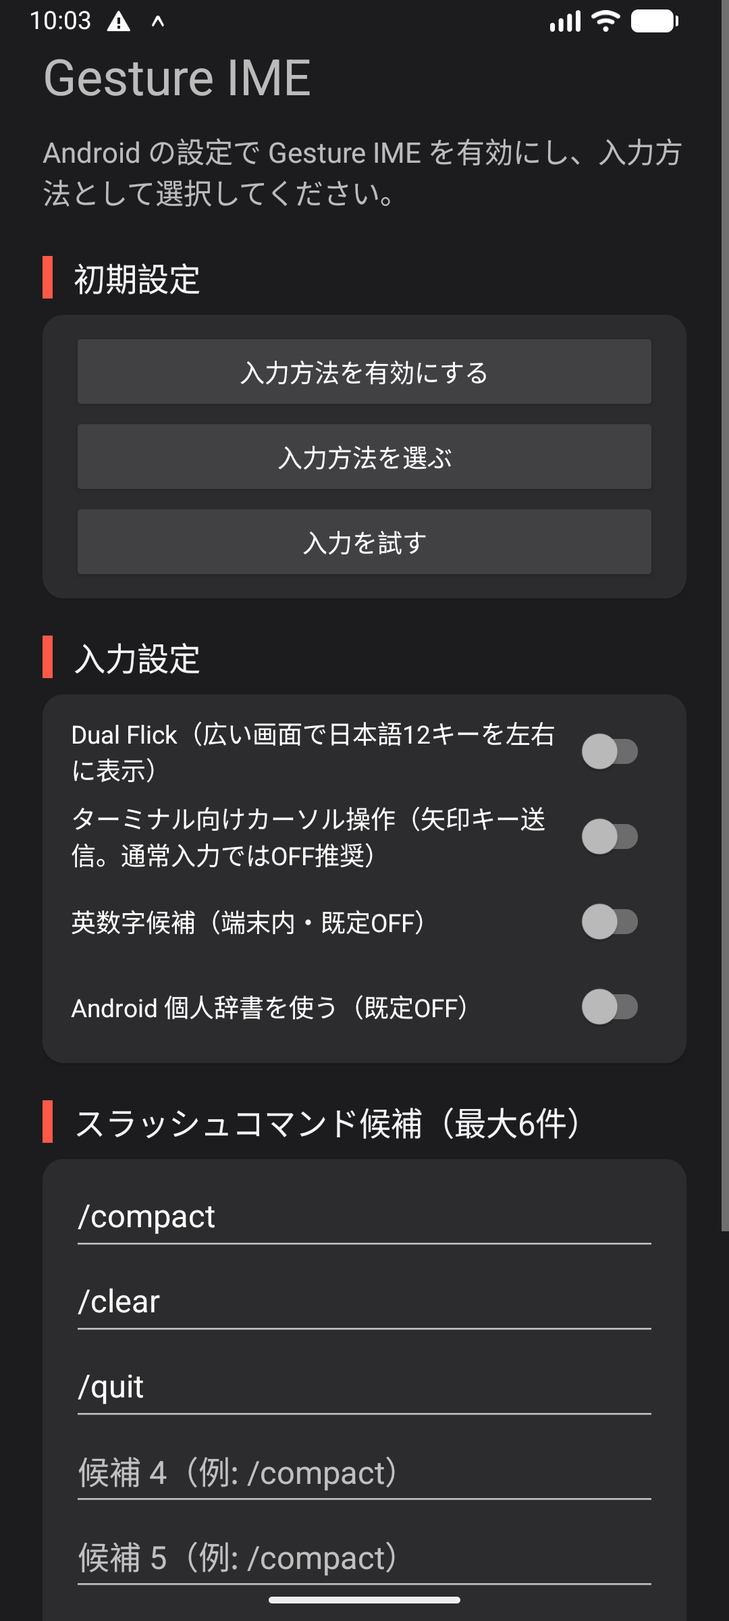
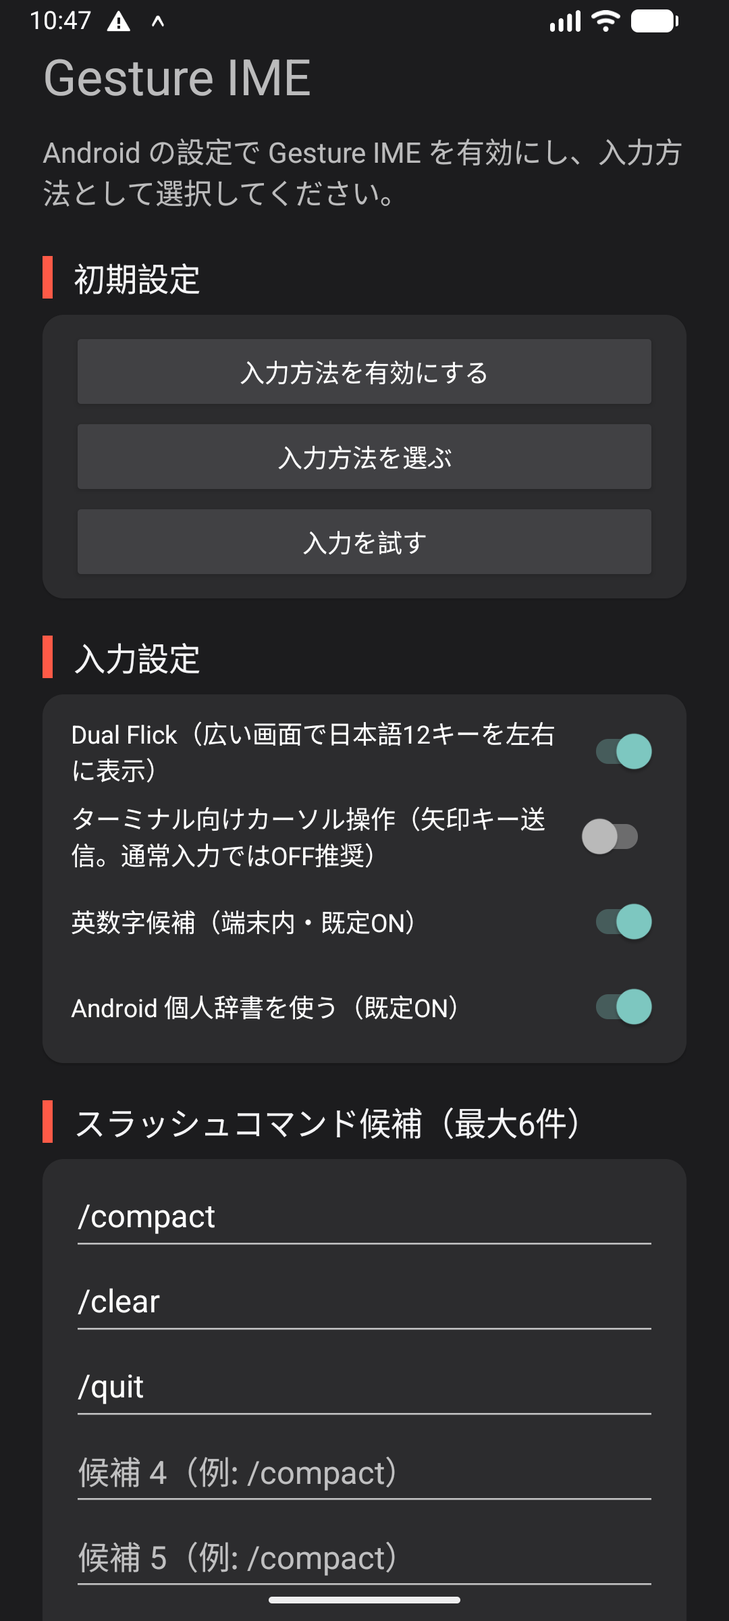
[260912-014204-enable-non-terminal-settings-by-default] feat(settings): enable general input aids by default

diff --git a/site/manual.html b/site/manual.html
@@ -25,15 +25,15 @@
 
       <section id="layers"><h2>五つのレイヤーを切り替える</h2><p>左下のレイヤーキーは、現在の表示にかかわらず同じ方向へ移動します。中央の文字はタップ時の移動先です。記号レイヤーは各レイヤー左端の「#!」をタップして開きます。</p><table class="gesture-table"><thead><tr><th>操作</th><th>動作</th></tr></thead><tbody><tr><td>左フリック</td><td>音声入力面</td></tr><tr><td>上フリック</td><td>日本語</td></tr><tr><td>右フリック</td><td>QWERTY</td></tr><tr><td>下フリック</td><td>テンキー</td></tr><tr><td>あんをタップ</td><td>日本語</td></tr><tr><td>AZをタップ</td><td>QWERTY</td></tr><tr><td>#!をタップ</td><td>記号</td></tr></tbody></table></section>
 
-      <section id="dual"><h2>広い画面でDual Flickを使う</h2><ol class="steps"><li>Gesture IMEのセットアップ画面を開き、「Dual Flick」を有効にします。</li><li>タブレット表示など横幅の広い画面で日本語レイヤーを開くと、かな12キーが左右に1組ずつ表示されます。Foldなら、閉じたスマホ表示と開いたタブレット表示の両方で使えます。</li><li>左右どちらからでも同じ読みへ入力できます。狭い画面では設定を保ったまま、自動的に通常の1組表示へ戻ります。</li></ol><p class="note">Dual Flickの初期設定はOFFです。数字、記号、候補欄、Space、Enterなどの編集キーは複製されません。</p><figure class="manual-shot"><img src="assets/dual-kana-v0.5.png" alt="横幅の広い画面でかな12キーを左右2組表示したGesture IME v0.5.0"><figcaption>タブレット幅でDual Flickを有効にした日本語レイヤー</figcaption></figure></section>
+      <section id="dual"><h2>広い画面でDual Flickを使う</h2><ol class="steps"><li>Dual Flickは初期状態で有効です。設定を変える場合はGesture IMEのセットアップ画面を開きます。</li><li>タブレット表示など横幅の広い画面で日本語レイヤーを開くと、かな12キーが左右に1組ずつ表示されます。Foldなら、閉じたスマホ表示と開いたタブレット表示の両方で使えます。</li><li>左右どちらからでも同じ読みへ入力できます。狭い画面では設定を保ったまま、自動的に通常の1組表示へ戻ります。</li></ol><p class="note">Dual Flickの初期設定はONです。数字、記号、候補欄、Space、Enterなどの編集キーは複製されません。</p><figure class="manual-shot"><img src="assets/dual-kana-v0.5.png" alt="横幅の広い画面でかな12キーを左右2組表示したGesture IME v0.5.0"><figcaption>タブレット幅でDual Flickを有効にした日本語レイヤー</figcaption></figure></section>
 
       <section id="japanese"><h2>日本語を入力して変換する</h2><p>かなキーをタップすると中央、上下左右へ動かすと各方向のかなが入ります。たとえば「あ」は中央が「あ」、左が「い」、上が「う」、右が「え」、下が「お」です。同じキーを続けて押しても文字が置き換わらず、入力した回数だけ追加されます。</p><ol class="steps"><li>左下キーを上へフリックして「日本語」を開きます。</li><li>かなを中央または四方向から選びます。入力中の読みと変換候補が上段に表示されます。</li><li>Spaceをタップして候補を巡回します。候補を直接タップするか、「確定」を押すと確定します。読みが変わると候補欄の横位置は先頭へ戻ります。</li></ol><p>「小」キーはタップで直前のかなを変換可能な形へ順番に切り替え、上で小文字、左で濁点、右で半濁点へ直接切り替えます。変換中の「確定」は、上フリックで元のひらがな、左フリックで全角カタカナをそのまま確定します。読みがないときのSpaceは空白、変換中でないときのEnterは入力欄の指定アクションまたは改行になります。</p><figure class="manual-shot"><img src="assets/kana-popup-v0.5.png" alt="Gesture IME v0.5.0の日本語12キーレイヤー"><figcaption>QWERTYと高さを揃えた日本語12キー</figcaption></figure><figure class="manual-shot"><img src="assets/kana-candidates-v0.5.png" alt="候補を表示しても背景色が変わらないGesture IME v0.5.0"><figcaption>候補の有無にかかわらず、候補欄の背景色は一定です。</figcaption></figure></section>
 
-      <section id="learning"><h2>変換学習とAndroid個人辞書を使う</h2><h3>Mozcの変換学習</h3><p>通常の入力欄で確定した日本語候補は端末内のMozc履歴へ保存され、次回以降の候補順位に反映されます。不要な学習候補は候補面を長押しすると、その候補のMozc履歴から削除できます。Android個人辞書由来の候補は長押しで削除されません。</p><h3>Android個人辞書</h3><ol class="steps"><li>Androidの個人辞書で、単語と読みとして使うショートカットを登録します。</li><li>Gesture IMEのセットアップ画面を開き、「Android 個人辞書を使う」をONにします。初期設定はOFFです。</li><li>日本語レイヤーでショートカットと同じ読みを入力すると、登録語がMozc候補の前へ表示されます。</li></ol><p class="note">日本語ロケールまたはロケール未指定の登録語を最大6件参照します。Androidが現在のIMEへ個人辞書Providerを提供しない端末や、Providerへのアクセスを拒否した状態では、設定がONでも個人辞書候補を表示せず、通常のMozc候補だけを表示します。個人辞書をGesture IME内へ複製せず、ネットワークへ送信しません。パスワード欄と学習禁止指定の入力欄では、候補、学習、個人辞書参照を行いません。</p><figure class="manual-shot"><img src="assets/setup-v0.10-light.png" alt="Android個人辞書の利用設定を備えたGesture IME v0.10.0セットアップ画面"><figcaption>「Android 個人辞書を使う」は初期設定OFF。必要な場合だけ有効にします。</figcaption></figure></section>
+      <section id="learning"><h2>変換学習とAndroid個人辞書を使う</h2><h3>Mozcの変換学習</h3><p>通常の入力欄で確定した日本語候補は端末内のMozc履歴へ保存され、次回以降の候補順位に反映されます。不要な学習候補は候補面を長押しすると、その候補のMozc履歴から削除できます。Android個人辞書由来の候補は長押しで削除されません。</p><h3>Android個人辞書</h3><ol class="steps"><li>Androidの個人辞書で、単語と読みとして使うショートカットを登録します。</li><li>「Android 個人辞書を使う」は初期状態で有効です。設定を変える場合はGesture IMEのセットアップ画面を開きます。</li><li>日本語レイヤーでショートカットと同じ読みを入力すると、登録語がMozc候補の前へ表示されます。</li></ol><p class="note">日本語ロケールまたはロケール未指定の登録語を最大6件参照します。Androidが現在のIMEへ個人辞書Providerを提供しない端末や、Providerへのアクセスを拒否した状態では、設定がONでも個人辞書候補を表示せず、通常のMozc候補だけを表示します。個人辞書をGesture IME内へ複製せず、ネットワークへ送信しません。パスワード欄と学習禁止指定の入力欄では、候補、学習、個人辞書参照を行いません。</p><figure class="manual-shot"><img src="assets/setup-v0.10-light.png" alt="Android個人辞書の利用設定を備えたGesture IME v0.10.0セットアップ画面"><figcaption>Dual Flick、英数字候補、Android個人辞書は初期設定ON。必要に応じて個別に変更できます。</figcaption></figure></section>
 
       <section id="qwerty"><h2>QWERTYで英字と記号を入力する</h2><table class="gesture-table"><thead><tr><th>操作</th><th>入力</th></tr></thead><tbody><tr><td>英字キーをタップ</td><td>小文字</td></tr><tr><td>英字キーを上へスワイプ</td><td>その一文字だけ大文字</td></tr><tr><td>英字キーを下へフリック</td><td>キー上部の数字またはASCII記号</td></tr><tr><td>C/Aを上へフリック</td><td>次の一キーへAltを適用</td></tr><tr><td>C/Aを下へフリック</td><td>次の一キーへCtrlを適用</td></tr><tr><td>Enterを上へフリック</td><td>Ctrl+J</td></tr><tr><td>Enterを下へフリック</td><td>Paste</td></tr><tr><td>BSをタップ</td><td>一文字削除</td></tr><tr><td>BSを下へフリック</td><td>ESC操作</td></tr></tbody></table><p class="note">QWERTYと記号レイヤーを合わせると、Spaceを含む印字可能ASCII 95文字をすべて入力できます。「-」はQWERTYのx下フリックと記号レイヤー、「`」は記号レイヤーにあります。記号レイヤーの文字キーには方向フリックを割り当てていません。C/A選択後は背景色が変わり、次の一キーへ適用すると解除されます。</p><div class="theme-gallery"><figure class="manual-shot"><img src="assets/enter-ctrl-j-v0.9.png" alt="Enterを上フリックしてC-jを表示した操作モック"><figcaption>上フリック中だけC-jを表示</figcaption></figure><figure class="manual-shot"><img src="assets/enter-paste-v0.9.png" alt="Enterを下フリックしてpasteを中央へ拡大した操作モック"><figcaption>下フリックのpasteを90msで中央へ移動</figcaption></figure></div></section>
 
-      <section id="english-suggestions"><h2>英字候補を使う</h2><ol class="steps"><li>Gesture IMEのセットアップ画面で「英数字候補」を有効にします。初期設定はOFFです。</li><li>半角の英字・数字を続けて入力すると、未確定のまま保持します。英字だけのときは、その文字で始まる単語を候補欄へ最大5件表示します。数字が混ざると候補は表示しません。候補が表示されても入力した文字は変わりません。</li><li>候補をタップすると、入力中の英字を選んだ単語で置き換えて確定します。</li></ol><p>入力中にSpaceを押すと、その英字・数字を変更せず確定してから空白を入力します。Enterを押すと英字・数字だけを確定し、この場合は改行や送信を追加しません。入力中の英字・数字がないときのEnterは従来どおりです。パスワード欄では候補を表示しません。</p><p class="note">候補は端末内の固定英単語辞書から生成します。入力履歴の学習、個人辞書、ネットワーク送信、クラウド同期はありません。入力した大文字と小文字は候補にも保たれます。</p><figure class="manual-shot"><img src="assets/english-candidates-v0.6.png" alt="通常入力欄でproの英字候補を表示し、機密入力欄では候補を表示しないGesture IME v0.6.0"><figcaption>通常入力欄の候補表示。機密入力欄には候補を出しません。</figcaption></figure></section>
+      <section id="english-suggestions"><h2>英字候補を使う</h2><ol class="steps"><li>英数字候補は初期状態で有効です。設定を変える場合はGesture IMEのセットアップ画面を開きます。</li><li>半角の英字・数字を続けて入力すると、未確定のまま保持します。英字だけのときは、その文字で始まる単語を候補欄へ最大5件表示します。数字が混ざると候補は表示しません。候補が表示されても入力した文字は変わりません。</li><li>候補をタップすると、入力中の英字を選んだ単語で置き換えて確定します。</li></ol><p>入力中にSpaceを押すと、その英字・数字を変更せず確定してから空白を入力します。Enterを押すと英字・数字だけを確定し、この場合は改行や送信を追加しません。入力中の英字・数字がないときのEnterは従来どおりです。パスワード欄では候補を表示しません。</p><p class="note">候補は端末内の固定英単語辞書から生成します。入力履歴の学習、個人辞書、ネットワーク送信、クラウド同期はありません。入力した大文字と小文字は候補にも保たれます。</p><figure class="manual-shot"><img src="assets/english-candidates-v0.6.png" alt="通常入力欄でproの英字候補を表示し、機密入力欄では候補を表示しないGesture IME v0.6.0"><figcaption>通常入力欄の候補表示。機密入力欄には候補を出しません。</figcaption></figure></section>
 
       <section id="slash-commands"><h2>スラッシュコマンド候補を使う</h2><ol class="steps"><li>QWERTYで「/」を入力します。初期設定では「/compact」「/clear」「/quit」が候補欄に表示されます。</li><li>候補をタップすると、入力中の「/」を選んだコマンドで置き換えて確定します。候補を選ばなければ「/」のまま入力できます。</li><li>候補を変える場合は、Gesture IMEのセットアップ画面にある6個の欄を編集します。先頭の「/」は省略しても自動で補われ、空欄と同じ候補の重複は表示されません。</li></ol><p class="note">スラッシュ候補は英数字候補のON/OFFにかかわらず使えます。パスワード欄などの機密入力では表示しません。</p><div class="theme-gallery"><figure class="manual-shot"><img src="assets/slash-command-settings-v0.8.png" alt="6個のスラッシュコマンドを設定する画面"><figcaption>最大6個の候補を設定</figcaption></figure><figure class="manual-shot"><img src="assets/slash-command-candidates-v0.8.png" alt="QWERTYでスラッシュコマンド候補を表示"><figcaption>「/」に続く候補を表示</figcaption></figure></div></section>
 

diff --git a/app/src/test/java/com/masuidrive/gestureime/ImePreferencesTest.kt b/app/src/test/java/com/masuidrive/gestureime/ImePreferencesTest.kt
@@ -36,45 +36,41 @@ class ImePreferencesTest {
     }
 
     @Test
-    fun dualFlickDefaultsOffAndPersists() {
+    fun nonTerminalInputSettingsDefaultOnButExplicitFalsePersists() {
         val context = RuntimeEnvironment.getApplication()
-        assertFalse(ImePreferences.isDualFlickEnabled(context))
-
-        ImePreferences.setDualFlickEnabled(context, true)
+        val preferences = context.getSharedPreferences("gesture_ime_preferences", 0)
+        preferences.edit().clear().commit()
 
         assertTrue(ImePreferences.isDualFlickEnabled(context))
-        ImePreferences.setDualFlickEnabled(context, false)
-    }
-
-    @Test
-    fun englishSuggestionsDefaultOffPersistAndRejectMalformedValue() {
-        val context = RuntimeEnvironment.getApplication()
-        assertFalse(ImePreferences.isEnglishSuggestionsEnabled(context))
-
-        ImePreferences.setEnglishSuggestionsEnabled(context, true)
         assertTrue(ImePreferences.isEnglishSuggestionsEnabled(context))
+        assertTrue(ImePreferences.isAndroidUserDictionaryEnabled(context))
+        assertFalse(ImePreferences.isTerminalCursorEnabled(context))
 
-        context.getSharedPreferences("gesture_ime_preferences", 0).edit()
-            .putString("english_suggestions_enabled", "bad")
-            .apply()
+        ImePreferences.setDualFlickEnabled(context, false)
+        ImePreferences.setEnglishSuggestionsEnabled(context, false)
+        ImePreferences.setAndroidUserDictionaryEnabled(context, false)
+
+        assertFalse(ImePreferences.isDualFlickEnabled(context))
         assertFalse(ImePreferences.isEnglishSuggestionsEnabled(context))
+        assertFalse(ImePreferences.isAndroidUserDictionaryEnabled(context))
+        assertTrue(preferences.contains("dual_flick_enabled"))
+        assertTrue(preferences.contains("english_suggestions_enabled"))
+        assertTrue(preferences.contains("android_user_dictionary_enabled"))
     }
 
     @Test
-    fun androidUserDictionaryDefaultsOffAndPersistsExplicitConsent() {
+    fun malformedBooleanValuesUseSafeOffFallbackWithoutOverwritingStorage() {
         val context = RuntimeEnvironment.getApplication()
-        context.getSharedPreferences("gesture_ime_preferences", 0).edit()
-            .remove("android_user_dictionary_enabled")
-            .apply()
-        assertFalse(ImePreferences.isAndroidUserDictionaryEnabled(context))
-
-        ImePreferences.setAndroidUserDictionaryEnabled(context, true)
-        assertTrue(ImePreferences.isAndroidUserDictionaryEnabled(context))
-
-        context.getSharedPreferences("gesture_ime_preferences", 0).edit()
+        val preferences = context.getSharedPreferences("gesture_ime_preferences", 0)
+        preferences.edit()
+            .putString("english_suggestions_enabled", "bad")
             .putString("android_user_dictionary_enabled", "bad")
             .apply()
+
+        assertFalse(ImePreferences.isEnglishSuggestionsEnabled(context))
         assertFalse(ImePreferences.isAndroidUserDictionaryEnabled(context))
+        assertEquals("bad", preferences.getString("english_suggestions_enabled", null))
+        assertEquals("bad", preferences.getString("android_user_dictionary_enabled", null))
     }
 
     @Test

diff --git a/app/src/test/java/com/masuidrive/gestureime/SetupActivitySlashCommandsTest.kt b/app/src/test/java/com/masuidrive/gestureime/SetupActivitySlashCommandsTest.kt
@@ -22,17 +22,31 @@ import org.robolectric.annotation.Config
 @Config(sdk = [35])
 class SetupActivitySlashCommandsTest {
     @Test
-    fun androidUserDictionarySwitchDefaultsOffAndRecordsExplicitConsent() {
+    fun nonTerminalInputSwitchesDefaultOnAndKeepExplicitFalseAfterRecreation() {
         val context = RuntimeEnvironment.getApplication()
         context.getSharedPreferences("gesture_ime_preferences", 0).edit().clear().commit()
         val activity = Robolectric.buildActivity(SetupActivity::class.java).setup().get()
         val root = activity.findViewById<View>(android.R.id.content)
-        val toggle = root.descendants().filterIsInstance<Switch>()
-            .single { it.text.toString() == "Android 個人辞書を使う（既定OFF）" }
+        val toggles = root.descendants().filterIsInstance<Switch>()
+        val dual = toggles.single { it.text.toString().startsWith("Dual Flick") }
+        val terminal = toggles.single { it.text.toString().startsWith("ターミナル向け") }
+        val english = toggles.single { it.text.toString() == "英数字候補（端末内・既定ON）" }
+        val dictionary = toggles.single { it.text.toString() == "Android 個人辞書を使う（既定ON）" }
 
-        assertFalse(toggle.isChecked)
-        toggle.isChecked = true
-        assertTrue(ImePreferences.isAndroidUserDictionaryEnabled(activity))
+        assertTrue(dual.isChecked)
+        assertFalse(terminal.isChecked)
+        assertTrue(english.isChecked)
+        assertTrue(dictionary.isChecked)
+
+        dual.isChecked = false
+        english.isChecked = false
+        dictionary.isChecked = false
+        activity.recreate()
+
+        val recreated = activity.findViewById<View>(android.R.id.content).descendants().filterIsInstance<Switch>()
+        assertFalse(recreated.single { it.text.toString().startsWith("Dual Flick") }.isChecked)
+        assertFalse(recreated.single { it.text.toString().startsWith("英数字候補") }.isChecked)
+        assertFalse(recreated.single { it.text.toString().startsWith("Android 個人辞書") }.isChecked)
     }
 
     @Test

diff --git a/app/src/test/java/com/masuidrive/gestureime/ImeServiceVoiceHoldTest.kt b/app/src/test/java/com/masuidrive/gestureime/ImeServiceVoiceHoldTest.kt
@@ -84,7 +84,7 @@ class ImeServiceVoiceHoldTest {
     private class Harness(private val ready:Boolean=true) {
         val controller=Robolectric.buildService(ImeService::class.java).create(); val service=controller.get()
         val input=RecordingConnection(View(RuntimeEnvironment.getApplication())); val recognizer=FakeRecognizer(); val conversion=FakeConversion(); lateinit var root:View
-        init { val text=TextInputController({input},service,service.getSystemService(ClipboardManager::class.java)); val voice=VoiceRecognitionController(35,{true},{true},{ l->recognizer.listener=l;recognizer },service::onVoiceState); service.installTestDependencies(voice,text,conversion); service.onStartInput(EditorInfo(),false); root=service.onCreateInputView() }
+        init { ImePreferences.setEnglishSuggestionsEnabled(service, false); val text=TextInputController({input},service,service.getSystemService(ClipboardManager::class.java)); val voice=VoiceRecognitionController(35,{true},{true},{ l->recognizer.listener=l;recognizer },service::onVoiceState); service.installTestDependencies(voice,text,conversion); service.onStartInput(EditorInfo(),false); root=service.onCreateInputView() }
         fun begin(){ service.onVoiceHold(VoiceHoldEvent.Begin(1)); idle(); recognizer.support?.invoke(true); if(ready) recognizer.ready(); idle() }
         fun idle()=Shadows.shadowOf(android.os.Looper.getMainLooper()).idle()
     }

diff --git a/app/src/main/java/com/masuidrive/gestureime/ImePreferences.kt b/app/src/main/java/com/masuidrive/gestureime/ImePreferences.kt
@@ -16,7 +16,7 @@ object ImePreferences {
 
     fun isEnglishSuggestionsEnabled(context: Context): Boolean = runCatching {
         context.getSharedPreferences(FILE_NAME, Context.MODE_PRIVATE)
-            .getBoolean(ENGLISH_SUGGESTIONS, false)
+            .getBoolean(ENGLISH_SUGGESTIONS, true)
     }.getOrDefault(false)
 
     fun setEnglishSuggestionsEnabled(context: Context, enabled: Boolean) {
@@ -28,7 +28,7 @@ object ImePreferences {
 
     fun isAndroidUserDictionaryEnabled(context: Context): Boolean = runCatching {
         context.getSharedPreferences(FILE_NAME, Context.MODE_PRIVATE)
-            .getBoolean(ANDROID_USER_DICTIONARY, false)
+            .getBoolean(ANDROID_USER_DICTIONARY, true)
     }.getOrDefault(false)
 
     fun setAndroidUserDictionaryEnabled(context: Context, enabled: Boolean) {
@@ -66,7 +66,7 @@ object ImePreferences {
 
     fun isDualFlickEnabled(context: Context): Boolean =
         context.getSharedPreferences(FILE_NAME, Context.MODE_PRIVATE)
-            .getBoolean(DUAL_FLICK, false)
+            .getBoolean(DUAL_FLICK, true)
 
     fun setDualFlickEnabled(context: Context, enabled: Boolean) {
         context.getSharedPreferences(FILE_NAME, Context.MODE_PRIVATE)

diff --git a/technical-reference.md b/technical-reference.md
@@ -32,14 +32,14 @@ Based on https://github.com/masuidrive/pdh/blob/15e6289/codex/templates/technica
 3. 候補待ちを含む入力actionは順序を保つ。Editor lifecycle generationと変換generationが一致しない非同期結果は破棄する。（2026-09-11 / 260910-163036）
 4. Mozcはincognito/learning無効で利用し、入力内容を永続化しない。secret欄では変換処理そのものを呼ばない。（2026-09-11 / 260910-163036）
 5. スマホ・タブレットの代表値として412dpと840dp相当のエミュレータ幅を使い、Fold実機を使っていない確認は実機検証と区別して報告する。（2026-09-11 / 260910-163036, 260911-153653）
-6. Dual Flickは設定default OFFとし、利用可能幅600dp以上の日本語かなレイヤーだけ中央12キーを左右2組にする。候補・編集・レイヤー切替キーとcompositionは共有する。Foldでは閉じたスマホ幅で1組、開いたタブレット幅で2組を使える。（2026-09-11 / 260911-000706, 260911-153653）
+6. Dual Flickは設定default ONとし、利用可能幅600dp以上の日本語かなレイヤーだけ中央12キーを左右2組にする。候補・編集・レイヤー切替キーとcompositionは共有する。Foldでは閉じたスマホ幅で1組、開いたタブレット幅で2組を使える。（2026-09-11 / 260911-000706, 260911-153653; 2026-09-12 / 260912-014204）
 7. Spaceとカーソルレイヤーの上下移動は、現在Editorから得た`ExtractedText`の改行区切りlogical line間を同じ列で移動し、文書内へclampする。視覚上のsoft wrapは別行として扱わず、抽出不能時はfocus越境を避けるためno-opにする。（2026-09-11 / 260910-233809）
 8. 変換中Enterは候補確定を表示し、tapで現在候補、上フリックで元readingのひらがな、左フリックで全角カタカナをそれぞれ1回で確定する。確定後はcompositionと候補を消し、次のかな入力を新しいreadingとして開始する。（2026-09-11 / 260910-233809; 2026-09-12 / 260912-002431-commit-enter-flick-conversions）
 9. 音声入力はAPI 31以降の`createOnDeviceSpeechRecognizer()`だけを使用し、`ja-JP`モデルの対応を確認する。通常のnetwork recognizerへのfallbackとモデルの自動downloadは行わない。（2026-09-11 / 260910-233205）
 10. 音声入力は左下レイヤーキーを左へフリックし、方向が確定した時点で専用`VOICE` modeへ移って開始する。進入前の文字layerを保持し、候補tapまたは取消で戻る。VOICE面の左下キーは中央tapで取消、上で日本語、右でQWERTY、下でテンキーへ切り替える。（2026-09-11 / 260911-014049, 260911-055701-assign-layer-left-swipe-to-voice; 2026-09-12 / 260911-160113）
 11. native描画は保存済み正本HTMLのLight/Dark paletteをAndroidの`values`/`values-night`へ対応させ、端末`uiMode`へ自動追従する。文字倍率はキー境界内へfitし、QWERTYラベルは正本から決めた固定の大きさ・位置で描画する。popupは候補欄の高さを変えず、非focus・非touchのoverlayで上端キーから画面内へ表示する。（2026-09-11 / 260911-022705, 260911-053738; 2026-09-12 / 260911-175407）
 12. 左下レイヤーキーは全レイヤーで左=音声入力、上=日本語、右=QWERTY、下=テンキーとし、中央tapは各キーの表示先へ切り替える。記号レイヤーは`#!`キーの中央tapから開く。候補欄の背景は候補の有無によらずkeyboard背景に固定し、選択候補のaccentは維持する。（2026-09-11 / 260911-022705, 260911-055701-assign-layer-left-swipe-to-voice）
-13. 英数字候補は既定OFFかつprivate欄では無効とする。ON時はASCII英数字を最大64文字のcompositionとして保持し、英字だけのprefixを固定端末内辞書へ照会する。候補tapは描画token、候補source、editor session、生成世代、prefixが一致した時だけ置換確定する。Space/Enterおよびlayer・modifier・cursor・paste・voice・IME hideはraw確定境界とし、editor切替時は旧bufferを新editorへ渡さない。（2026-09-11 / 260911-003916）
+13. 英数字候補は既定ONかつprivate欄では無効とする。ON時はASCII英数字を最大64文字のcompositionとして保持し、英字だけのprefixを固定端末内辞書へ照会する。候補tapは描画token、候補source、editor session、生成世代、prefixが一致した時だけ置換確定する。Space/Enterおよびlayer・modifier・cursor・paste・voice・IME hideはraw確定境界とし、editor切替時は旧bufferを新editorへ渡さない。（2026-09-11 / 260911-003916; 2026-09-12 / 260912-014204）
 14. QWERTY文字キーの下swipeでは補助labelのvisual centerを実key高の中央へ90msで移動し、狭幅/広幅とも固定anchorから中央へ到達させる。QWERTY以外とEnter/Pasteの下swipeは従来の13dp transitionを維持する。（2026-09-11 / 260911-055701-center-qwerty-down-swipe-label; 2026-09-12 / 260911-175407）
 15. 日本語変換候補と英字補完候補は共通faceを使い、高さ34dp、最小幅82dp、左右padding 14dp、gap 5dp、radius 7dp、1dp下影、HTML 15px相当の固定15dp文字で描画する。候補欄全高50dpは上8dp・左右3dp・下8dpを含み、Light/Darkの通常/選択色はHTML key/selected paletteへ一致させる。音声の許可・非対応controlは操作可能性を維持しつつ通常candidate faceを使い、候補選択中のaccentを表示しない。（2026-09-11 / 260911-062719-align-candidate-ui-with-html; 2026-09-12 / 260912-002431-align-native-settings-and-voice-ui）
 16. QWERTY、記号、日本語、テンキー、カーソルの全4行layoutは縦gap 10dpとrow pitchを共有し、外画面は55dp pitch/45dp face・全高228dp、内画面は62dp pitch/52dp face・全高256dpとする。日本語の単一配列・Dual Flick・縦長Enterにも同じ縦geometryを適用し、横gap 6dpは維持する。（2026-09-11 / 260911-063048-unify-four-row-keyboard-heights, 260911-072658-unify-all-four-row-layout-heights）
@@ -49,7 +49,7 @@ Based on https://github.com/masuidrive/pdh/blob/15e6289/codex/templates/technica
 20. 端末内音声認識はpartial resultsを要求し、最新の途中結果を通常候補欄の共通faceへ表示する。音声の途中結果と最終候補だけは候補欄の可視幅以下で最大2行に折り返し、超過分を末尾省略する。最終結果は空文字と重複を除いた可変件数を同じ候補UIへ順序どおり表示し、描画tokenとeditor sessionが一致する候補tapだけを1回確定する。取消、error、IME終了、入力欄切替では未確定結果を破棄する。日本語変換、英字補完、スラッシュ候補は従来の1行表示と横スクロールを保つ。（2026-09-11 / 260911-060238-align-voice-status-ui-and-show-partials; 2026-09-12 / 260911-160113, 260911-234748）
 21. 変換中でないEnterは上フリックでCtrl+Jを同一gesture内のkey eventとして送り、待機中に上方向ラベルを出さず、選択中だけ`C-j`を17sp相当で中央表示する。下フリックPaste、tap Enter、変換中の上無変換・左カタカナを維持する。（2026-09-11 / 260911-102026-add-enter-up-flick-ctrl-j）
 22. Mozcは通常欄で`incognitoMode=false`と`DEFAULT_HISTORY`を使い、確定結果を端末内profileへ学習する。Mozc候補の長押しは描画token・候補source・index・editor sessionを再検証して`DELETE_CANDIDATE_FROM_HISTORY`を送る。private欄は変換engineへ入力を渡さない。（2026-09-11 / 260911-102026-enable-mozc-learning-and-user-dictionary）
-23. Android個人辞書はSetupの既定OFF toggleを利用者がONにした場合だけ`UserDictionary.Words`を参照し、shortcutがreadingと完全一致し、localeが日本語または未指定の語を頻度順で最大6件、Mozc候補の前へ重複なく加える。Android個人辞書候補の長押しではprovider rowを削除しない。（2026-09-11 / 260911-102026-enable-mozc-learning-and-user-dictionary）
+23. Android個人辞書はSetupの既定ON toggleがONの場合だけ`UserDictionary.Words`を参照し、shortcutがreadingと完全一致し、localeが日本語または未指定の語を頻度順で最大6件、Mozc候補の前へ重複なく加える。Android個人辞書候補の長押しではprovider rowを削除しない。（2026-09-11 / 260911-102026-enable-mozc-learning-and-user-dictionary; 2026-09-12 / 260912-014204）
 24. 候補barはcandidate sourceと表示文字列の並びが変わった時だけ横scrollを0へ戻し、同じ内容でtokenまたは選択indexだけが変わる候補巡回では現在位置を維持する。（2026-09-11 / 260911-102706-reset-candidate-scroll-on-content-change）
 25. `KeyboardView`は描画矩形とtap矩形を分離する。横6dp・縦10dpの見える隙間は中点で隣接キーへ分け、ACTION_DOWNとaccessibility hit testで同じtap矩形を使う。EMPTY領域は入力せず、描画geometryと`GestureThresholds.selectionDp=18`を維持する。（2026-09-11 / 260911-132948-expand-key-hit-targets-through-gaps）
 26. Setup画面は初期設定・入力設定・スラッシュコマンド候補・アプリ情報の4セクションをカードとして表示し、各操作領域を48dp以上にする。表示色はAndroidのLight/Darkへ追従し、バージョン表示は`BuildConfig.VERSION_NAME`を参照する。（2026-09-12 / 260912-002431-align-native-settings-and-voice-ui）

diff --git a/tickets/260912-014204-enable-non-terminal-settings-by-default/note.md b/tickets/260912-014204-enable-non-terminal-settings-by-default/note.md
@@ -11,11 +11,11 @@
      未了の一覧は `./ticket.sh check`。 -->
 - [ ] PDH-ticket-review: Why が product-brief.md に接続し、AC が観察可能で、ユーザ承認済み
 - [ ] PDH-ticket-review: Design Decisions / Out-of-scope / Dependencies / Architectural Invariants check が確認済み
-- [ ] PDH-implement: 実装が依存する «確かめていない仮定» を書く前に列挙し、測れるものは測った
-- [ ] PDH-implement: implementor が論理単位ごとに commit し、mega-commit にしていない
-- [ ] PDH-implement: `scripts/test-all.sh` 全スイートパス確認済み
+- [x] PDH-implement: 実装が依存する «確かめていない仮定» を書く前に列挙し、測れるものは測った
+- [x] PDH-implement: implementor が論理単位ごとに commit し、mega-commit にしていない
+- [x] PDH-implement: `scripts/test-all.sh` 全スイートパス確認済み
 - [ ] PDH-implement: 外部 provider 経由 path は実 API 200 確認済み (deferred の場合は明示記録)
-- [ ] PDH-implement: ticket の AC / Architectural Invariants / out-of-scope が implementor によって書き換えられていない
+- [x] PDH-implement: ticket の AC / Architectural Invariants / out-of-scope が implementor によって書き換えられていない
 - [ ] PDH-review: 確定判断が 1 件ずつ実装に落ちている（対応する実体を名指しできない判断は未実装）
 - [ ] PDH-review: 指摘を直すとき、壊していない側の入力を 1 つ選んで前後の出力を記録した
 - [ ] PDH-review: Directorが採用したCritical/Majorが解消し、非採用findingの分類根拠を記録
@@ -41,12 +41,24 @@
      「測って記録する＋この値を下回ったら止めて報告する」の形にする。
      この節は close の必須グループ（`require_checklist_groups`）なので、消すと close が止まる。
      途中で要求するときは `./ticket.sh check --require "Required Probes"`。 -->
-- [ ] 測る対象を洗い出し、書き手が測れるものは測って結果をここへ書いた（測る対象が無いなら `- [-] ... - skip: <理由>`）
+- [x] 測る対象を洗い出し、書き手が測れるものは測って結果をここへ書いた（測る対象が無いなら `- [-] ... - skip: <理由>`）
+  - SharedPreferencesをclearした新規状態でDual Flick・英数字候補・Android個人辞書=true、terminal cursor=falseを確認した。
+  - 3設定を明示falseへ保存してSetupActivityを再生成し、3つのswitchがfalseのままになることを確認した。
+  - 型不正な保存値は従来の安全側falseへfallbackし、保存値自体を上書きしないことを確認した。
 
 ## PDH-implement. 実装ログ
 <!-- 1 agent が investigate + implement + tests を 1 session で完遂する。
      実コードを読みながら直接実装し、設計判断 / scope 拡張・縮小の判断 / 実コードで発見した事実をここに append する。
      論理単位ごとの commit hash 一覧も記録する (mega-commit 禁止。commit 数は gate ではない)。 -->
+
+- `ImePreferences`の3つの`getBoolean`だけ未保存時fallbackをtrueへ変更した。setter、SharedPreferences key、terminal、slash、last layerには変更なし。
+- Setupの英数字候補・Android個人辞書ラベルを既定ONへ更新し、switchのchecked値は引き続き`ImePreferences`をsingle sourceにした。
+- manualとtechnical referenceの3設定の初期値説明をONへ更新し、terminal OFFは維持した。
+- focused `ImePreferencesTest` / `SetupActivitySlashCommandsTest`は成功した。
+- 初回full suiteでは、英字候補OFFを暗黙前提にした`ImeServiceVoiceHoldTest`が新defaultでraw `x`ではなくcomposition経路へ入り1件失敗した。音声cancelを検証するfixtureで英字候補を明示OFFにし、利用者の保存済みfalseを利用する実条件へ固定した。
+- 再実行した`scripts/test-all.sh --parallel`はfast-checksとAndroid unit/lint/APK buildが成功した。
+- API 36.1 emulatorのアプリdataをclearした新規状態でSetupを開き、Dual Flick・英数字候補・Android個人辞書がON、terminal cursorがOFFであることをLight/Dark双方で確認した。`docs/screenshots/v0.10/setup-{light,dark}.png`とsite assetsを同画面へ更新し、確認後night modeをLightへ復元した。
+- 重複検出skip: `similarity-generic`が環境にないため。新規production helperは追加していない。
 
 ## PDH-review. 品質検証結果
 <!-- PDH-review-1 / PDH-review-2 のように attempt ごとに記録する。
@@ -66,6 +78,8 @@
 ## Technical reference 更新
 <!-- この ticket の差分に因果がある追記・上書きの内容、または「該当なし」＋理由を 1 行以上必ず書く。
      他 ticket 由来の記述を消したくなったら、消さずにここへ削除候補として記録する。 -->
+
+- decisions 6/13/23のDual Flick・英数字候補・Android個人辞書の既定値をONへ更新した。terminal cursorのOFFは変更していない。
 
 ## PDH-human-review. 人間レビュー
 <!-- agent は PDH-verify まで自動で進め、この stage で人間レビューを依頼する。

diff --git a/progress.md b/progress.md
@@ -159,3 +159,5 @@
 [2026/09/12 10:20] 音声Permission/Unavailable controlが選択候補の青faceを誤用していたreview Majorを修正。操作可能性を保った通常candidate faceへ分離し、Light/Darkの色・shadow・click/focusをRobolectricで固定、API 36.1のLight/Dark実画面を確認してv0.10音声画像を再撮影した。
[1 lines of base64/hex data omitted]
 [2026/09/12 10:42] ターミナル向けカーソル操作だけ初期OFFに残し、Dual Flick・英数字候補・Android個人辞書を初期ONへ変更するticketを作成。既存の明示保存値は上書きしない契約とした。Mozcの次単語予測は公式session APIと現行JNI実装の差分を調査中。
+[2026/09/12 14:30] SharedPreferences key未保存時だけDual Flick・英数字候補・Android個人辞書を既定ONへ変更し、terminal cursorはOFFを維持。明示false保存後のSetup再生成でも利用者選択が保たれる回帰testとmanual/TRの初期値説明を更新した。
+[2026/09/12 14:48] 新規状態のSetupをAPI 36.1 Light/Darkで確認し、3設定ON・terminal OFFの最新画像へ更新。英字候補OFFを暗黙前提にした音声test fixtureを明示OFFへ直し、full fast-check/unit/lint/APK buildがPASS。
